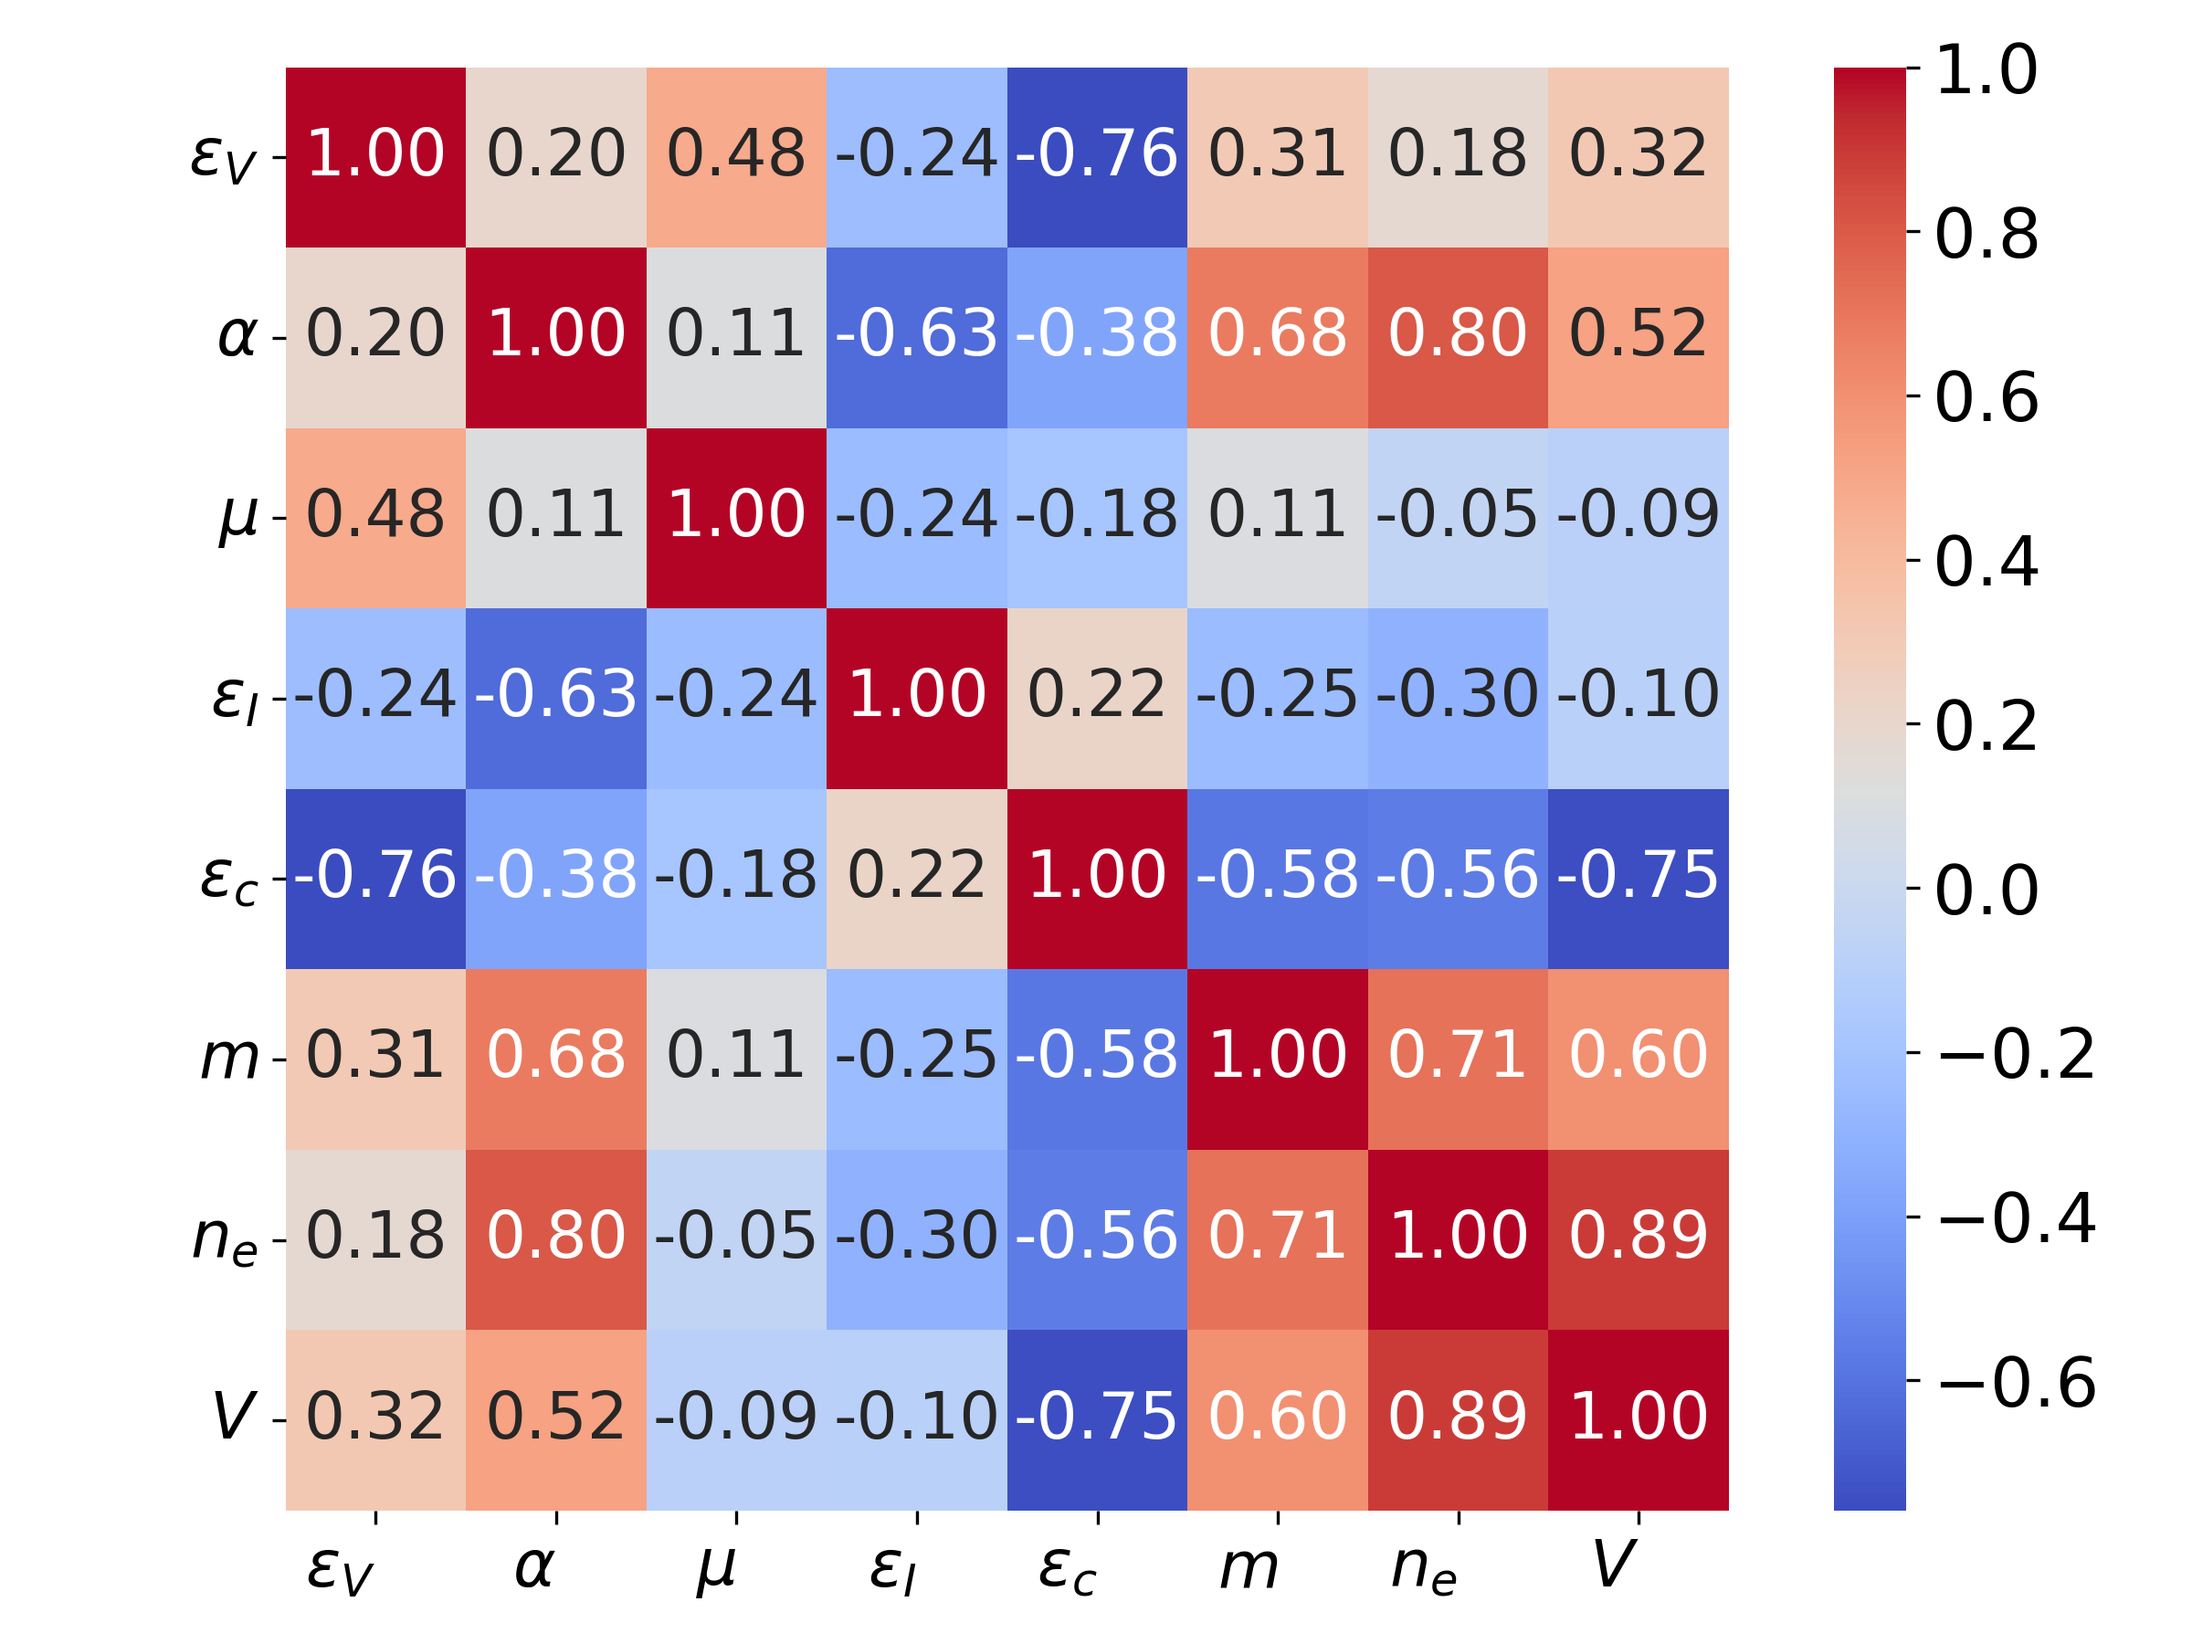
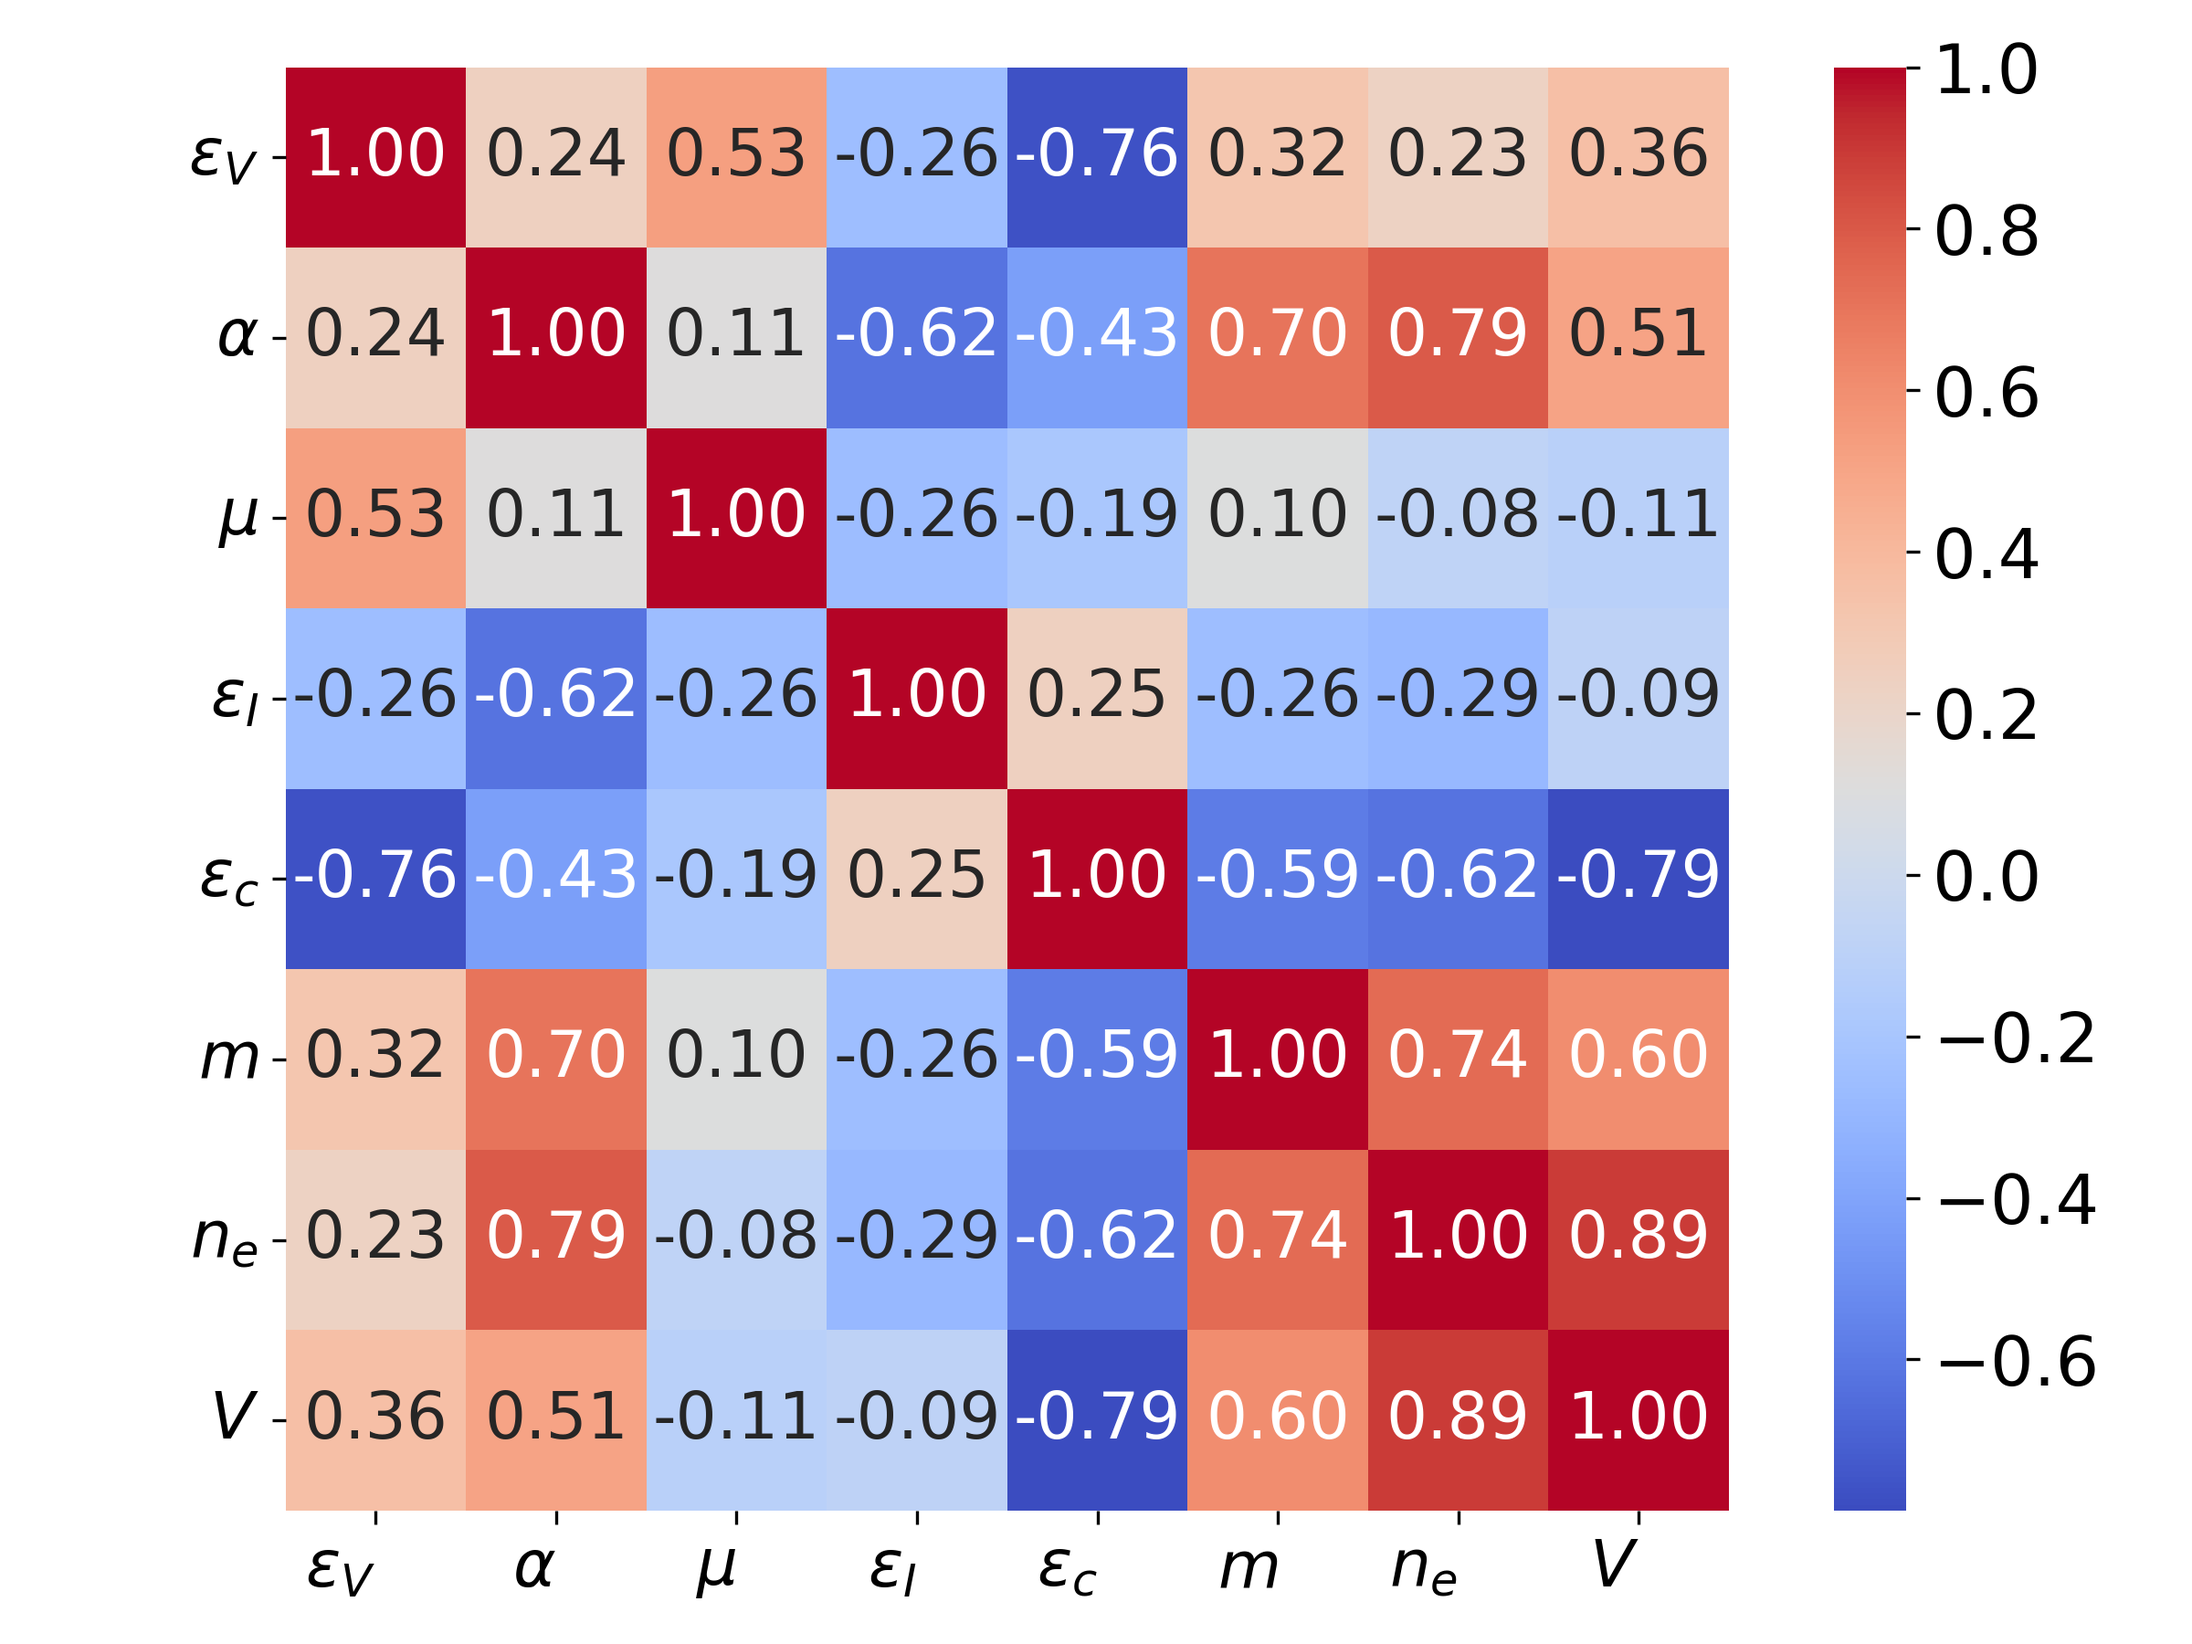
Finished removing the molecules with I in them from the datasets

diff --git a/src/data_preprocess.py b/src/data_preprocess.py
@@ -18,85 +18,23 @@ from sklearn.metrics import classification_report, confusion_matrix
 from sklearn.model_selection import train_test_split
 from sklearn.preprocessing import StandardScaler
 
-# -------------Training Dataset ---------------------------------------------------------------------------------
-# Define the column names based on the header
-columns = [
-    "Molecule",
-    "Vibrational ZPE",
-    "Polarizability",
-    "Dipole Moment",
-    "Adiabatic IE",
-    "Cohesive Energy",
-    "Breakdown Voltage",
-    "Molecular Mass",
-    "Number e-",
-    "Molecular Volume"
-]
-
-# Load the file
-with open('./data/molecular_data.txt', "r") as file:
-    lines = file.readlines()
-
-data = []
-
-for line in lines:
-    # Remove leading/trailing whitespace
-    line = line.strip()
-    if not line or line.startswith("Molecule"):
-        continue  # Skip empty and header lines
-
-    # Match molecule name (non-numeric part at the start)
-    match = re.match(r'^(\S+)', line)
-    if match:
-        molecule = match.group(1)
-        # Extract all numbers (scientific notation or float)
-        values = re.findall(r'[-+]?\d*\.\d+e[+-]?\d+|[-+]?\d+\.\d+|[-+]?\d+', line[len(molecule):])
-        # Fill missing values with None (so all rows have 6 columns)
-        while len(values) < 6:
-            values.append(None)
-        data.append([molecule] + values)
-
-# Convert to DataFrame
-df = pd.DataFrame(data, columns=columns)
-df = df.replace("", pd.NA).dropna()
-
-pd.set_option('display.max_rows', None)
-pd.set_option('display.max_columns', None)
-
-df = df.reset_index(drop=True)
-names = df["Molecule"]
-
-df = df.drop(columns=["Molecule"])
-
-
-# Convert numeric columns to float
-for col in columns[1:]:
-    df[col] = pd.to_numeric(df[col], errors='coerce')
-
-# Preview the result
-#print(df)
-#print(len(df))
-
-df.to_csv("./data/molecular_data_sorted.txt", sep="\t", index=False)
-names.to_csv("./data/molecular_names_sorted.txt", sep="\t", index=False)
-
-
-#-------------Prediction Dataset----------------------------------------------------------------------------------
+# # -------------Training Dataset ---------------------------------------------------------------------------------
 # # Define the column names based on the header
-# columns_tm = [
+# columns = [
 #     "Molecule",
 #     "Vibrational ZPE",
 #     "Polarizability",
 #     "Dipole Moment",
 #     "Adiabatic IE",
 #     "Cohesive Energy",
+#     "Breakdown Voltage",
 #     "Molecular Mass",
 #     "Number e-",
 #     "Molecular Volume"
 # ]
 
 # # Load the file
-# with open('./data/molecular_data_tm.txt', "r") as file:
+# with open('./data/molecular_data.txt', "r") as file:
 #     lines = file.readlines()
 
 # data = []
@@ -119,32 +57,94 @@ names.to_csv("./data/molecular_names_sorted.txt", sep="\t", index=False)
 #         data.append([molecule] + values)
 
 # # Convert to DataFrame
-# df_tm = pd.DataFrame(data, columns=columns_tm)
-# df_tm = df_tm.replace("", pd.NA).dropna()
+# df = pd.DataFrame(data, columns=columns)
+# df = df.replace("", pd.NA).dropna()
 
 # pd.set_option('display.max_rows', None)
 # pd.set_option('display.max_columns', None)
 
-# df_tm = df_tm.reset_index(drop=True)
-# names_tm = df_tm["Molecule"]
+# df = df.reset_index(drop=True)
+# names = df["Molecule"]
 
-# df_tm = df_tm.drop(columns=["Molecule"])
+# df = df.drop(columns=["Molecule"])
 
 
 # # Convert numeric columns to float
-# for col in columns_tm[1:]:
-#     df_tm[col] = pd.to_numeric(df_tm[col], errors='coerce')
+# for col in columns[1:]:
+#     df[col] = pd.to_numeric(df[col], errors='coerce')
 
 # # Preview the result
-# # print(df)
-# # print(len(df_tm))
+# #print(df)
+# #print(len(df))
 
-# df_tm.to_csv("./data/molecular_tm_data_sorted.txt", sep="\t", index=False)
-# names_tm.to_csv("./data/molecular_tm_names_sorted.txt", sep="\t", index=False)
+# df.to_csv("./data/molecular_data_sorted.txt", sep="\t", index=False)
+# names.to_csv("./data/molecular_names_sorted.txt", sep="\t", index=False)
+
+
+#-------------Prediction Dataset----------------------------------------------------------------------------------
+# Define the column names based on the header
+columns_tm = [
+    "Molecule",
+    "Vibrational ZPE",
+    "Polarizability",
+    "Dipole Moment",
+    "Adiabatic IE",
+    "Cohesive Energy",
+    "Molecular Mass",
+    "Number e-",
+    "Molecular Volume"
+]
+
+# Load the file
+with open('./data/molecular_data_tm.txt', "r") as file:
+    lines = file.readlines()
+
+data = []
+
+for line in lines:
+    # Remove leading/trailing whitespace
+    line = line.strip()
+    if not line or line.startswith("Molecule"):
+        continue  # Skip empty and header lines
+
+    # Match molecule name (non-numeric part at the start)
+    match = re.match(r'^(\S+)', line)
+    if match:
+        molecule = match.group(1)
+        # Extract all numbers (scientific notation or float)
+        values = re.findall(r'[-+]?\d*\.\d+e[+-]?\d+|[-+]?\d+\.\d+|[-+]?\d+', line[len(molecule):])
+        # Fill missing values with None (so all rows have 6 columns)
+        while len(values) < 6:
+            values.append(None)
+        data.append([molecule] + values)
+
+# Convert to DataFrame
+df_tm = pd.DataFrame(data, columns=columns_tm)
+df_tm = df_tm.replace("", pd.NA).dropna()
+
+pd.set_option('display.max_rows', None)
+pd.set_option('display.max_columns', None)
+
+df_tm = df_tm.reset_index(drop=True)
+names_tm = df_tm["Molecule"]
+
+df_tm = df_tm.drop(columns=["Molecule"])
+
+
+# Convert numeric columns to float
+for col in columns_tm[1:]:
+    df_tm[col] = pd.to_numeric(df_tm[col], errors='coerce')
+
+# Preview the result
+# print(df)
+# print(len(df_tm))
+
+df_tm.to_csv("./data/molecular_tm_data_sorted.txt", sep="\t", index=False)
+names_tm.to_csv("./data/molecular_tm_names_sorted.txt", sep="\t", index=False)
 
 
 
-# # ----------------seven test mols------------------------------------------------------------
+# #----------------seven test mols------------------------------------------------------------
 
 # # Load the file
 # with open('./data/seven_test_mol.txt', "r") as file:
@@ -199,48 +199,48 @@ names.to_csv("./data/molecular_names_sorted.txt", sep="\t", index=False)
 # Compute Pearson correlations between each feature and target and full matrix
 #-----------------------------------------------------------------------------
 
-clean_columns = [
-    r"$\varepsilon_{V}$",   # Vibrational ZPE 
-    r"$\alpha$",                   # Polarizability
-    r"$\mu$",                      # Dipole Moment
-    r"$\varepsilon_{I}$",              # Adiabatic IE
-    r"$\varepsilon_{c}$",            # Cohesive Energy
-    r"$m$",           # Molecular Mass
-    r"$n_{e}$",           # Number of electrons
-    r"$V$",           # Molecular Volume
-    "DS"
-]
+# clean_columns = [
+#     r"$\varepsilon_{V}$",   # Vibrational ZPE 
+#     r"$\alpha$",                   # Polarizability
+#     r"$\mu$",                      # Dipole Moment
+#     r"$\varepsilon_{I}$",              # Adiabatic IE
+#     r"$\varepsilon_{c}$",            # Cohesive Energy
+#     r"$m$",           # Molecular Mass
+#     r"$n_{e}$",           # Number of electrons
+#     r"$V$",           # Molecular Volume
+#     "DS"
+# ]
 
-df.columns = clean_columns
+# df.columns = clean_columns
 
-feature_names = clean_columns[0:-1]   # all input features
-target_col = clean_columns[-1]        # breakdown strength, not used right now
+# feature_names = clean_columns[0:-1]   # all input features
+# target_col = clean_columns[-1]        # breakdown strength, not used right now
 
-# correlations = df.corr(method='pearson')[[target_col]].loc[feature_names]
+# # correlations = df.corr(method='pearson')[[target_col]].loc[feature_names]
 
-# print("\n Pearson Correlation (r) with Breakdown Strength:")
-# print(correlations)
+# # print("\n Pearson Correlation (r) with Breakdown Strength:")
+# # print(correlations)
 
-# corr_matrix = df.corr(method='pearson')
+# # corr_matrix = df.corr(method='pearson')
 
 
-# select only the five feature columns
-feature_df = df[feature_names]
+# # select only the five feature columns
+# feature_df = df[feature_names]
 
-# Pearson correlation matrix of features only
-corr_matrix = feature_df.corr(method='pearson')
+# # Pearson correlation matrix of features only
+# corr_matrix = feature_df.corr(method='pearson')
 
-plt.figure(figsize=(8, 6))
-sns.heatmap(corr_matrix, annot=True, cmap="coolwarm", fmt=".2f", square=True, annot_kws={"size": 17})
-plt.xticks(rotation=0, ha='right', fontsize=17)
-plt.yticks(rotation=0, ha='right', fontsize=17)
-# plt.xlabel(fontsize=8.5)
-# plt.ylabel(fontsize=8.5)
-#plt.title("Pearson Correlation Matrix")
+# plt.figure(figsize=(8, 6))
+# sns.heatmap(corr_matrix, annot=True, cmap="coolwarm", fmt=".2f", square=True, annot_kws={"size": 17})
+# plt.xticks(rotation=0, ha='right', fontsize=17)
+# plt.yticks(rotation=0, ha='right', fontsize=17)
+# # plt.xlabel(fontsize=8.5)
+# # plt.ylabel(fontsize=8.5)
+# #plt.title("Pearson Correlation Matrix")
 
-cbar = plt.gcf().axes[-1]
-cbar.tick_params(labelsize=18)
+# cbar = plt.gcf().axes[-1]
+# cbar.tick_params(labelsize=18)
 
-plt.tight_layout()
-plt.savefig(f"./results/pearson_correlation_heatmap.png", dpi=300)
-plt.close()
+# plt.tight_layout()
+# plt.savefig(f"./results/pearson_correlation_heatmap.png", dpi=300)
+# plt.close()
